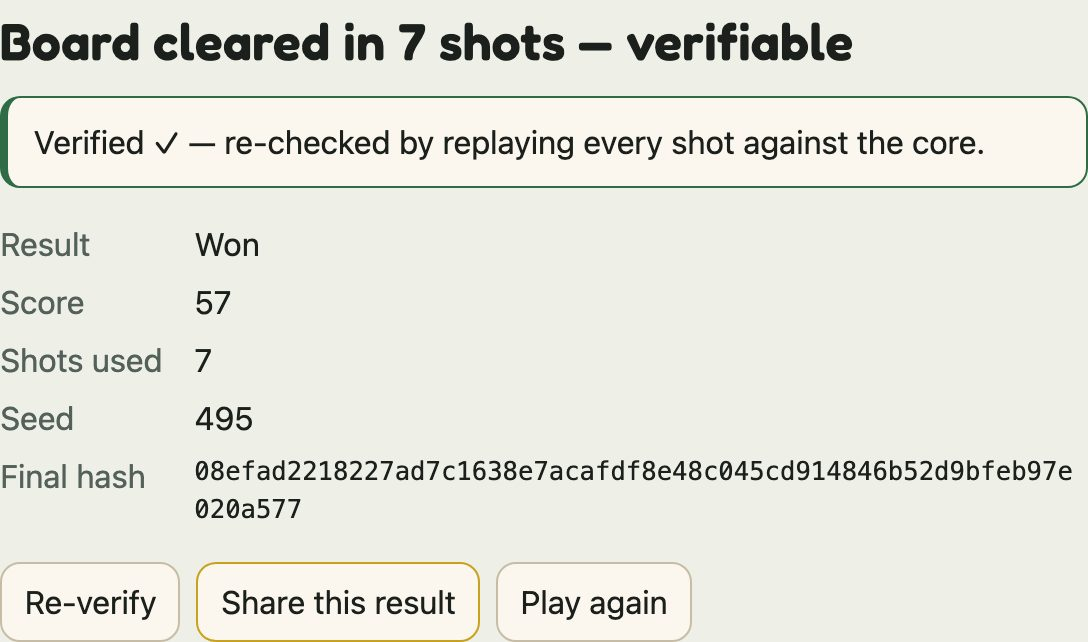
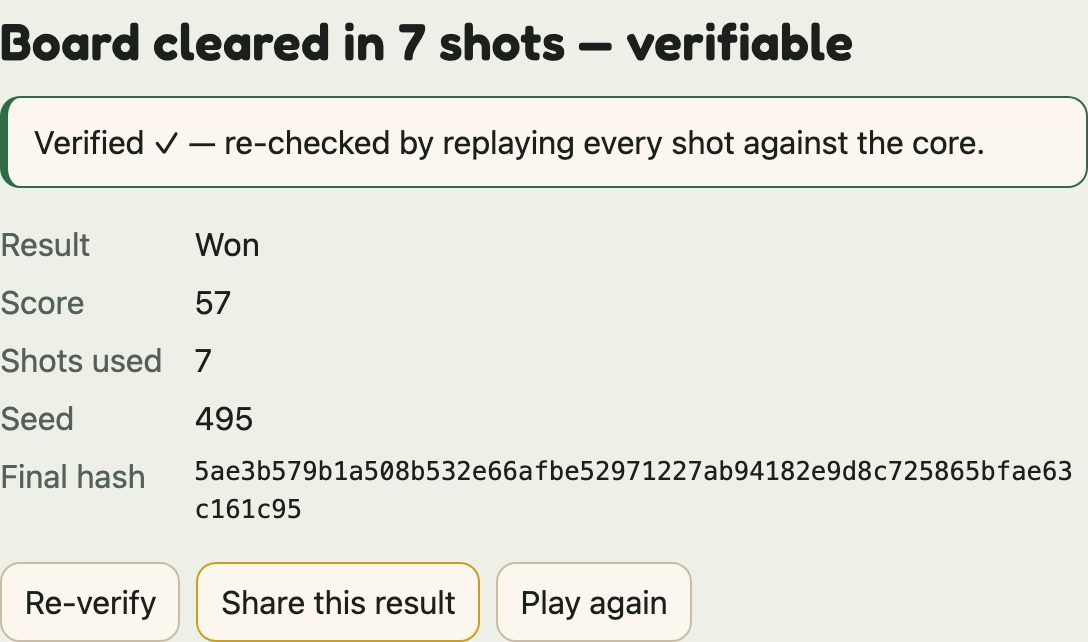
bubble: next-piece preview UI + orphan pop/drop animation; how-to + guide shots
Front-end layer for the two features.

Preview UI: a dimmed on-deck bubble drawn beside the launcher on the canvas, and
a .bub-next HUD chip (aria "Next up: ..."), both driven by board.nextColor.

Resolution animation: between the shot and the re-render, popped bubbles burst
(scale up + fade) and orphaned bubbles fall away (accelerating downward + fade)
over the settled board; skipped under reduced motion.

TS wrapper: BoardView.nextColor, LastShot/RemovedCell types, nextColor() and
lastShot().

How-to: corrected for honesty (the launcher no longer only loads a colour still
on the board) and updated to describe the on-deck preview and falling orphans;
regenerated the bubble-board / bubble-win guide shots.

E2E: added a preview test (the on-deck colour becomes the loaded colour after a
shot); full bubble suite green (152).

Changed region(s): [[0.1562, 0.7165, 1.0, 0.7477], [0.1562, 0.7788, 0.2812, 0.81]]

diff --git a/src/games/bubble/bubble.ts b/src/games/bubble/bubble.ts
@@ -9,7 +9,7 @@
 //! via `?r=`.
 
 import type { GameModule } from "../../contract.js";
-import { Bubble, type BoardView, type Geom } from "./bubble-wasm.js";
+import { Bubble, type BoardView, type Geom, type LastShot } from "./bubble-wasm.js";
 import { boardSubpixelSize, cellCenter, clampAngle, launcherOrigin, pointerToAngle } from "./bubble-aim.js";
 import {
   decodeRecord,
@@ -220,16 +220,34 @@ export function bubbleModule(): GameModule {
     x: number,
     y: number,
     color: number,
+    scale = 1,
+    alpha = 1,
   ): void => {
+    const r = geom.radius * 0.92 * scale;
+    ctx.save();
+    ctx.globalAlpha = alpha;
     ctx.beginPath();
-    ctx.arc(x, y, geom.radius * 0.92, 0, Math.PI * 2);
+    ctx.arc(x, y, r, 0, Math.PI * 2);
     ctx.fillStyle = p.surface;
     ctx.fill();
     ctx.fillStyle = p.gems[color] ?? p.ink;
-    ctx.font = `${Math.round(geom.radius * 1.15)}px system-ui, sans-serif`;
+    ctx.font = `${Math.round(geom.radius * 1.15 * scale)}px system-ui, sans-serif`;
     ctx.textAlign = "center";
     ctx.textBaseline = "middle";
-    ctx.fillText(BUBBLE_GLYPH[color] ?? "●", x, y + geom.radius * 0.06);
+    ctx.fillText(BUBBLE_GLYPH[color] ?? "●", x, y + geom.radius * 0.06 * scale);
+    ctx.restore();
+  };
+
+  // The on-deck ("next") bubble, drawn small and dimmed beside the launcher so
+  // the player can plan the shot after this one (a next-piece preview).
+  const drawOnDeck = (
+    ctx: CanvasRenderingContext2D,
+    p: Palette,
+    o: { x: number; y: number },
+    color: number,
+  ): void => {
+    const x = o.x + geom.diam * 0.95;
+    drawBubble(ctx, p, x, o.y, color, 0.58, 0.7);
   };
 
   // Draw the board + launcher, plus (when `flight` is null) the dotted aim
@@ -252,7 +270,10 @@ export function bubbleModule(): GameModule {
     });
 
     const o = origin(board);
-    if (!board.cleared) drawBubble(ctx, p, o.x, o.y, board.currentColor);
+    if (!board.cleared) {
+      drawBubble(ctx, p, o.x, o.y, board.currentColor);
+      drawOnDeck(ctx, p, o, board.nextColor);
+    }
 
     if (flight) {
       drawBubble(ctx, p, flight.x, flight.y, board.currentColor);
@@ -321,6 +342,53 @@ export function bubbleModule(): GameModule {
       raf = requestAnimationFrame(step);
     });
 
+  // The shot resolution: popped bubbles burst (scale up + fade), orphaned
+  // bubbles fall away (translate down + fade) over the settled board — so a pop
+  // and its knock-on drops read as cause→effect instead of vanishing. Drawn on
+  // the post-shot board; skipped under reduced motion (the caller checks).
+  const animateResolve = (ls: LastShot): Promise<void> =>
+    new Promise((resolve) => {
+      if (!canvas || !game) return resolve();
+      const ctx = canvas.getContext("2d");
+      if (!ctx) return resolve();
+      const p = palette();
+      const board = game.board(); // settled (post-shot) board
+      const o = origin(board);
+      const dur = 380;
+      const start = performance.now();
+      const step = (now: number): void => {
+        if (disposed || !canvas) return resolve();
+        const t = Math.min(1, (now - start) / dur);
+        ctx.clearRect(0, 0, canvas.width, canvas.height);
+        board.cells.forEach((rowCells, r) => {
+          rowCells.forEach((color, c) => {
+            if (color >= 0) {
+              const { x, y } = cellCenter(r, c, geom);
+              drawBubble(ctx, p, x, y, color);
+            }
+          });
+        });
+        if (!board.cleared) {
+          drawBubble(ctx, p, o.x, o.y, board.currentColor);
+          drawOnDeck(ctx, p, o, board.nextColor);
+        }
+        // Popped: a quick outward burst that fades.
+        for (const [r, c, color] of ls.popped) {
+          const { x, y } = cellCenter(r, c, geom);
+          drawBubble(ctx, p, x, y, color, 1 + 0.7 * t, 1 - t);
+        }
+        // Orphans: accelerate downward (gravity) and fade as they leave.
+        const fall = t * t * geom.rowH * 7;
+        for (const [r, c, color] of ls.dropped) {
+          const { x, y } = cellCenter(r, c, geom);
+          drawBubble(ctx, p, x, y + fall, color, 1, 1 - 0.85 * t);
+        }
+        if (t >= 1) return resolve();
+        raf = requestAnimationFrame(step);
+      };
+      raf = requestAnimationFrame(step);
+    });
+
   const fire = async (): Promise<void> => {
     if (!game || gameOver() || animating) return;
     const angle = aim;
@@ -331,9 +399,17 @@ export function bubbleModule(): GameModule {
     if (!prefersReducedMotion() && traj.points.length >= 2) {
       await animateFlight(traj.points);
     }
+    if (disposed || !game) {
+      animating = false;
+      return;
+    }
+    game.shoot(angle);
+    const ls = game.lastShot();
+    if (!prefersReducedMotion() && (ls.popped.length > 0 || ls.dropped.length > 0)) {
+      await animateResolve(ls);
+    }
     animating = false;
     if (disposed || !game) return;
-    game.shoot(angle);
     render();
   };
 
@@ -439,6 +515,7 @@ export function bubbleModule(): GameModule {
     );
 
     const color = board.currentColor;
+    const nextColor = board.nextColor;
     const hud = el(
       "div",
       { class: "bub-hud" },
@@ -450,6 +527,15 @@ export function bubbleModule(): GameModule {
           "aria-label": `Launcher loaded: ${BUBBLE_NAME[color] ?? "bubble"}`,
         },
         BUBBLE_GLYPH[color] ?? "●",
+      ),
+      el(
+        "span",
+        {
+          class: `bub-next bub-color-${nextColor}`,
+          role: "img",
+          "aria-label": `Next up: ${BUBBLE_NAME[nextColor] ?? "bubble"}`,
+        },
+        BUBBLE_GLYPH[nextColor] ?? "●",
       ),
       el("span", { class: "bub-score" }, `Score ${board.score}`),
       el("span", { class: "bub-shots" }, `Shots left ${board.shotsLeft}`),

diff --git a/src/games/bubble/bubble-howto.ts b/src/games/bubble/bubble-howto.ts
@@ -5,7 +5,7 @@ import type { Guide } from "../../how-to.js";
 
 export const BUBBLE_GUIDE: Guide = {
   title: "How to play the bubble shooter",
-  lede: "Clear every bubble off the board before your shots run out. The launcher at the bottom loads a colour; aim an angle and fire — the bubble flies up, bounces off the walls, and sticks where it first touches. Three or more of the same colour touching pop, and anything left hanging drops. Every cleared board is a record anyone can re-verify.",
+  lede: "Clear every bubble off the board before your shots run out. The launcher at the bottom holds a colour to fire and shows the next one on deck; aim an angle and fire — the bubble flies up, bounces off the walls, and sticks where it first touches. Three or more of the same colour touching pop, and anything left hanging falls away. Every cleared board is a record anyone can re-verify.",
   entries: [
     {
       testid: "howto-goal",
@@ -19,8 +19,8 @@ export const BUBBLE_GUIDE: Guide = {
         {
           kind: "shot",
           name: "bubble-board",
-          alt: "A staggered honeycomb of coloured, shaped bubbles on a green felt table, with a launcher at the bottom, a dotted aim line and a landing ring showing where the next shot will stick, and a score / shots-left bar.",
-          caption: "The board, the launcher with your next colour, the dotted aim guide showing where the shot will land, and the bar: your score and shots left.",
+          alt: "A staggered honeycomb of coloured, shaped bubbles on a green felt table, with a launcher at the bottom holding the loaded colour and a smaller on-deck colour beside it, a dotted aim line and a landing ring showing where the shot will stick, and a score / shots-left bar.",
+          caption: "The board, the launcher showing the loaded colour and the next one on deck, the dotted aim guide showing where the shot will land, and the bar: your score and shots left.",
         },
       ],
     },
@@ -31,7 +31,7 @@ export const BUBBLE_GUIDE: Guide = {
       blocks: [
         {
           kind: "prose",
-          text: "Each bubble has both a colour and a shape (circle, triangle, square, diamond, star, plus), so they stay distinct however you see colour. The launcher only ever loads a colour that is still on the board, so every shot can do something.",
+          text: "Each bubble has both a colour and a shape (circle, triangle, square, diamond, star, plus), so they stay distinct however you see colour. The launcher shows two colours — the one loaded now and the next one on deck — so you can plan two shots ahead. The on-deck colour is picked a shot early, so now and then it lands with nothing to match yet; plan around it.",
         },
       ],
     },
@@ -65,7 +65,7 @@ export const BUBBLE_GUIDE: Guide = {
       blocks: [
         {
           kind: "prose",
-          text: "When your shot makes a group of three or more of the same colour touching, the whole group pops. Better still: any bubbles left hanging with nothing connecting them to the top of the board drop away too — so popping the right group can clear a whole cluster at once. Both popped and dropped bubbles score, and drops are worth double.",
+          text: "When your shot makes a group of three or more of the same colour touching, the whole group pops in a burst. Better still: any bubbles left hanging with nothing connecting them to the top of the board come loose and fall away — so popping the right group can clear a whole cluster at once. Both popped and dropped bubbles score, and drops are worth double.",
         },
       ],
     },

diff --git a/src/games/bubble/bubble-wasm.ts b/src/games/bubble/bubble-wasm.ts
@@ -15,6 +15,8 @@ export interface BoardView {
   cells: number[][];
   /** The colour the next shot places. */
   currentColor: number;
+  /** The on-deck colour — the next-piece preview. */
+  nextColor: number;
   score: number;
   shotsLeft: number;
   shotBudget: number;
@@ -24,6 +26,16 @@ export interface BoardView {
 
 /** A landing cell: `[row, col]`. */
 export type Cell = [number, number];
+
+/** A removed cell for the resolution animation: `[row, col, colour]`. */
+export type RemovedCell = [number, number, number];
+
+/** The most recent shot's removed cells, so the UI can animate the resolution
+ *  (popped bubbles burst, orphaned bubbles fall) before re-rendering. */
+export interface LastShot {
+  popped: RemovedCell[];
+  dropped: RemovedCell[];
+}
 
 /** A resolved aim trajectory: the fixed-point flight-path vertices (launcher →
  *  wall bounces → stop, `[x, y]` in the core's sub-pixel space) and the landing
@@ -54,10 +66,12 @@ interface Exports {
   board_json(): number;
   geom_json(): number;
   trajectory_json(angle: number): number;
+  last_shot_json(): number;
   current_hash(): number;
   score(): number;
   shots_left(): number;
   current_color(): number;
+  next_color(): number;
   is_cleared(): number;
   shoot(angle: number): number;
   hint_angle(): number;
@@ -116,6 +130,12 @@ export class Bubble {
   trajectory(angle: number): Trajectory {
     return JSON.parse(this.read(this.x.trajectory_json(angle))) as Trajectory;
   }
+  /** The most recent shot's removed cells (`popped` burst, `dropped` fall). Read
+   *  it right after {@link shoot} to animate the resolution before re-rendering;
+   *  both lists are empty before the first shot. */
+  lastShot(): LastShot {
+    return JSON.parse(this.read(this.x.last_shot_json())) as LastShot;
+  }
   currentHash(): string {
     return JSON.parse(this.read(this.x.current_hash())) as string;
   }
@@ -127,6 +147,9 @@ export class Bubble {
   }
   currentColor(): number {
     return this.x.current_color();
+  }
+  nextColor(): number {
+    return this.x.next_color();
   }
   isCleared(): boolean {
     return this.x.is_cleared() === 1;

diff --git a/tests/bubble.spec.ts b/tests/bubble.spec.ts
@@ -27,6 +27,26 @@ test("the board renders a canvas, a launcher chip, an aim control and the HUD", 
   await expect(page.locator(".bub-hud")).toContainText(/shots left/i);
 });
 
+test("previews the next colour, and firing promotes it to the launcher", async ({ page }) => {
+  await page.goto("/bubble/?seed=7");
+  await ready(page);
+
+  // The on-deck chip is present and announces the next colour for a screen reader.
+  await expect(page.locator(".bub-next")).toHaveAttribute("aria-label", /next up/i);
+
+  // The previewed on-deck colour is exactly the colour the next shot will load:
+  // fire once, and the new launcher colour equals the colour that was on deck.
+  const onDeck = await page.evaluate(() => window.__bubble!.game.board().nextColor);
+  await page.evaluate(async () => {
+    const h = window.__bubble!;
+    h.setAim(80);
+    await h.fire();
+  });
+  await expect
+    .poll(() => page.evaluate(() => window.__bubble!.game.board().currentColor))
+    .toBe(onDeck);
+});
+
 test("aiming then firing spends a shot and lands where the core resolves it", async ({ page }) => {
   await page.goto("/bubble/?seed=7");
   await ready(page);

diff --git a/styles.css b/styles.css
@@ -818,6 +818,21 @@ body.fullscreen .play-area {
   background: var(--surface);
   box-shadow: inset 0 -2px 4px rgb(0 0 0 / 18%), 0 1px 2px rgb(0 0 0 / 25%);
 }
+/* The on-deck ("next") colour — smaller + dimmer than the loaded chip, sitting
+   just after it so it reads as the shot after this one. */
+.bub-next {
+  display: inline-flex;
+  align-items: center;
+  justify-content: center;
+  width: 1.3rem;
+  height: 1.3rem;
+  margin-left: -0.6rem;
+  border-radius: 50%;
+  background: var(--surface);
+  box-shadow: inset 0 -1px 3px rgb(0 0 0 / 15%), 0 1px 2px rgb(0 0 0 / 18%);
+  font-size: 0.85em;
+  opacity: 0.78;
+}
 .bub-hud {
   display: flex;
   align-items: center;
